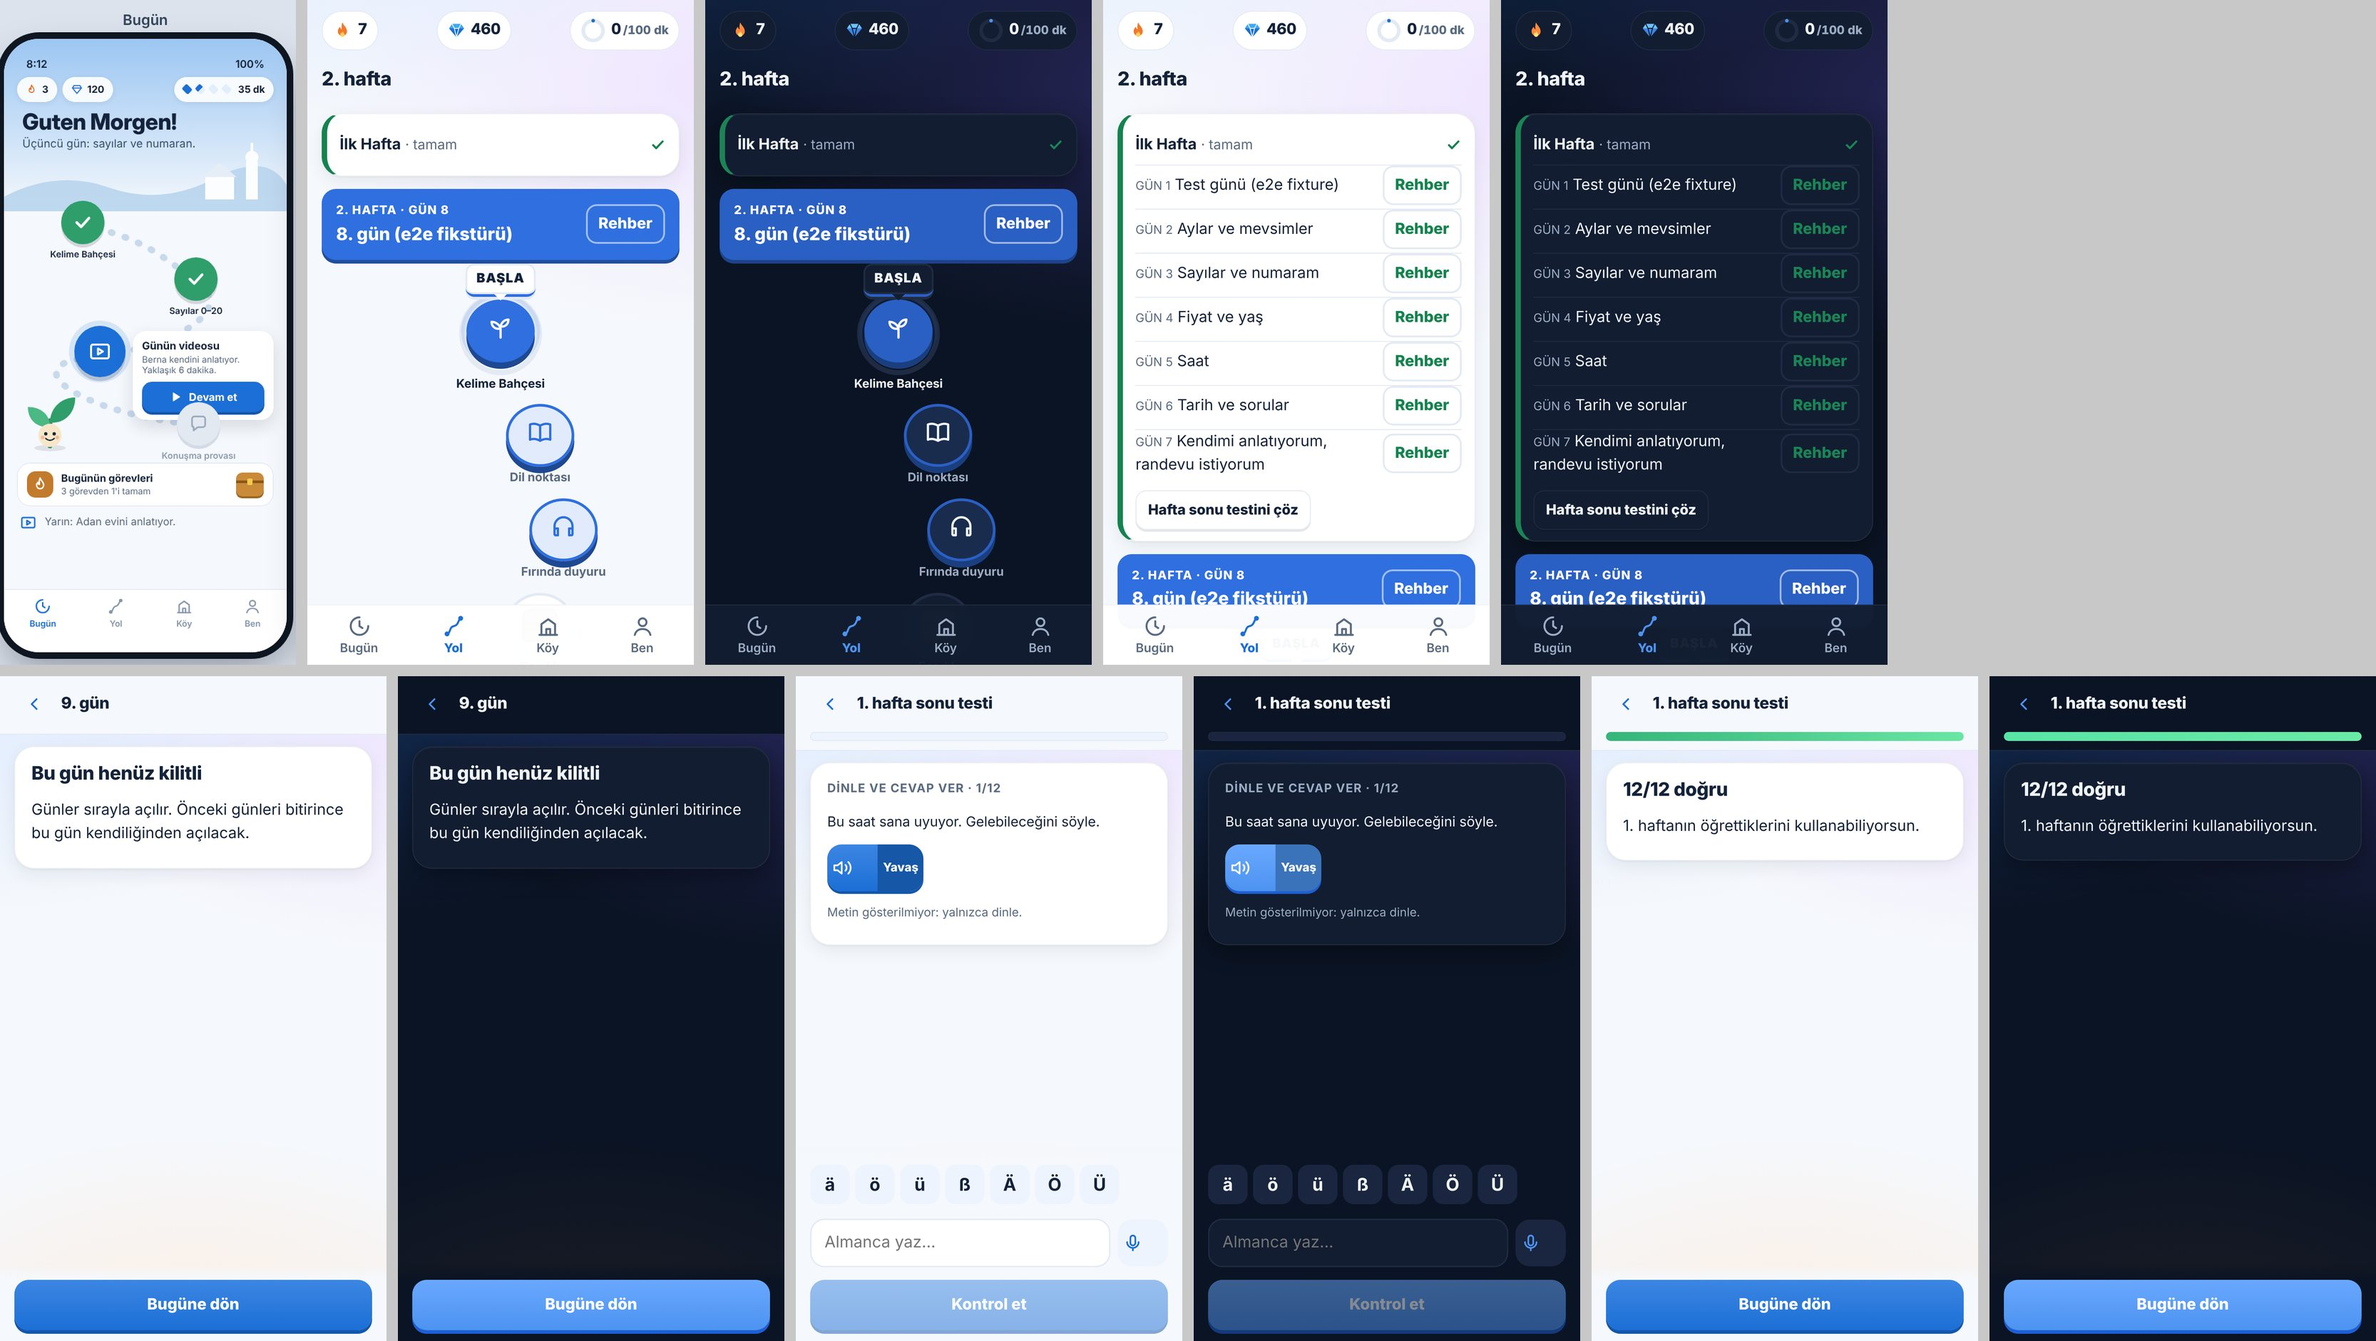
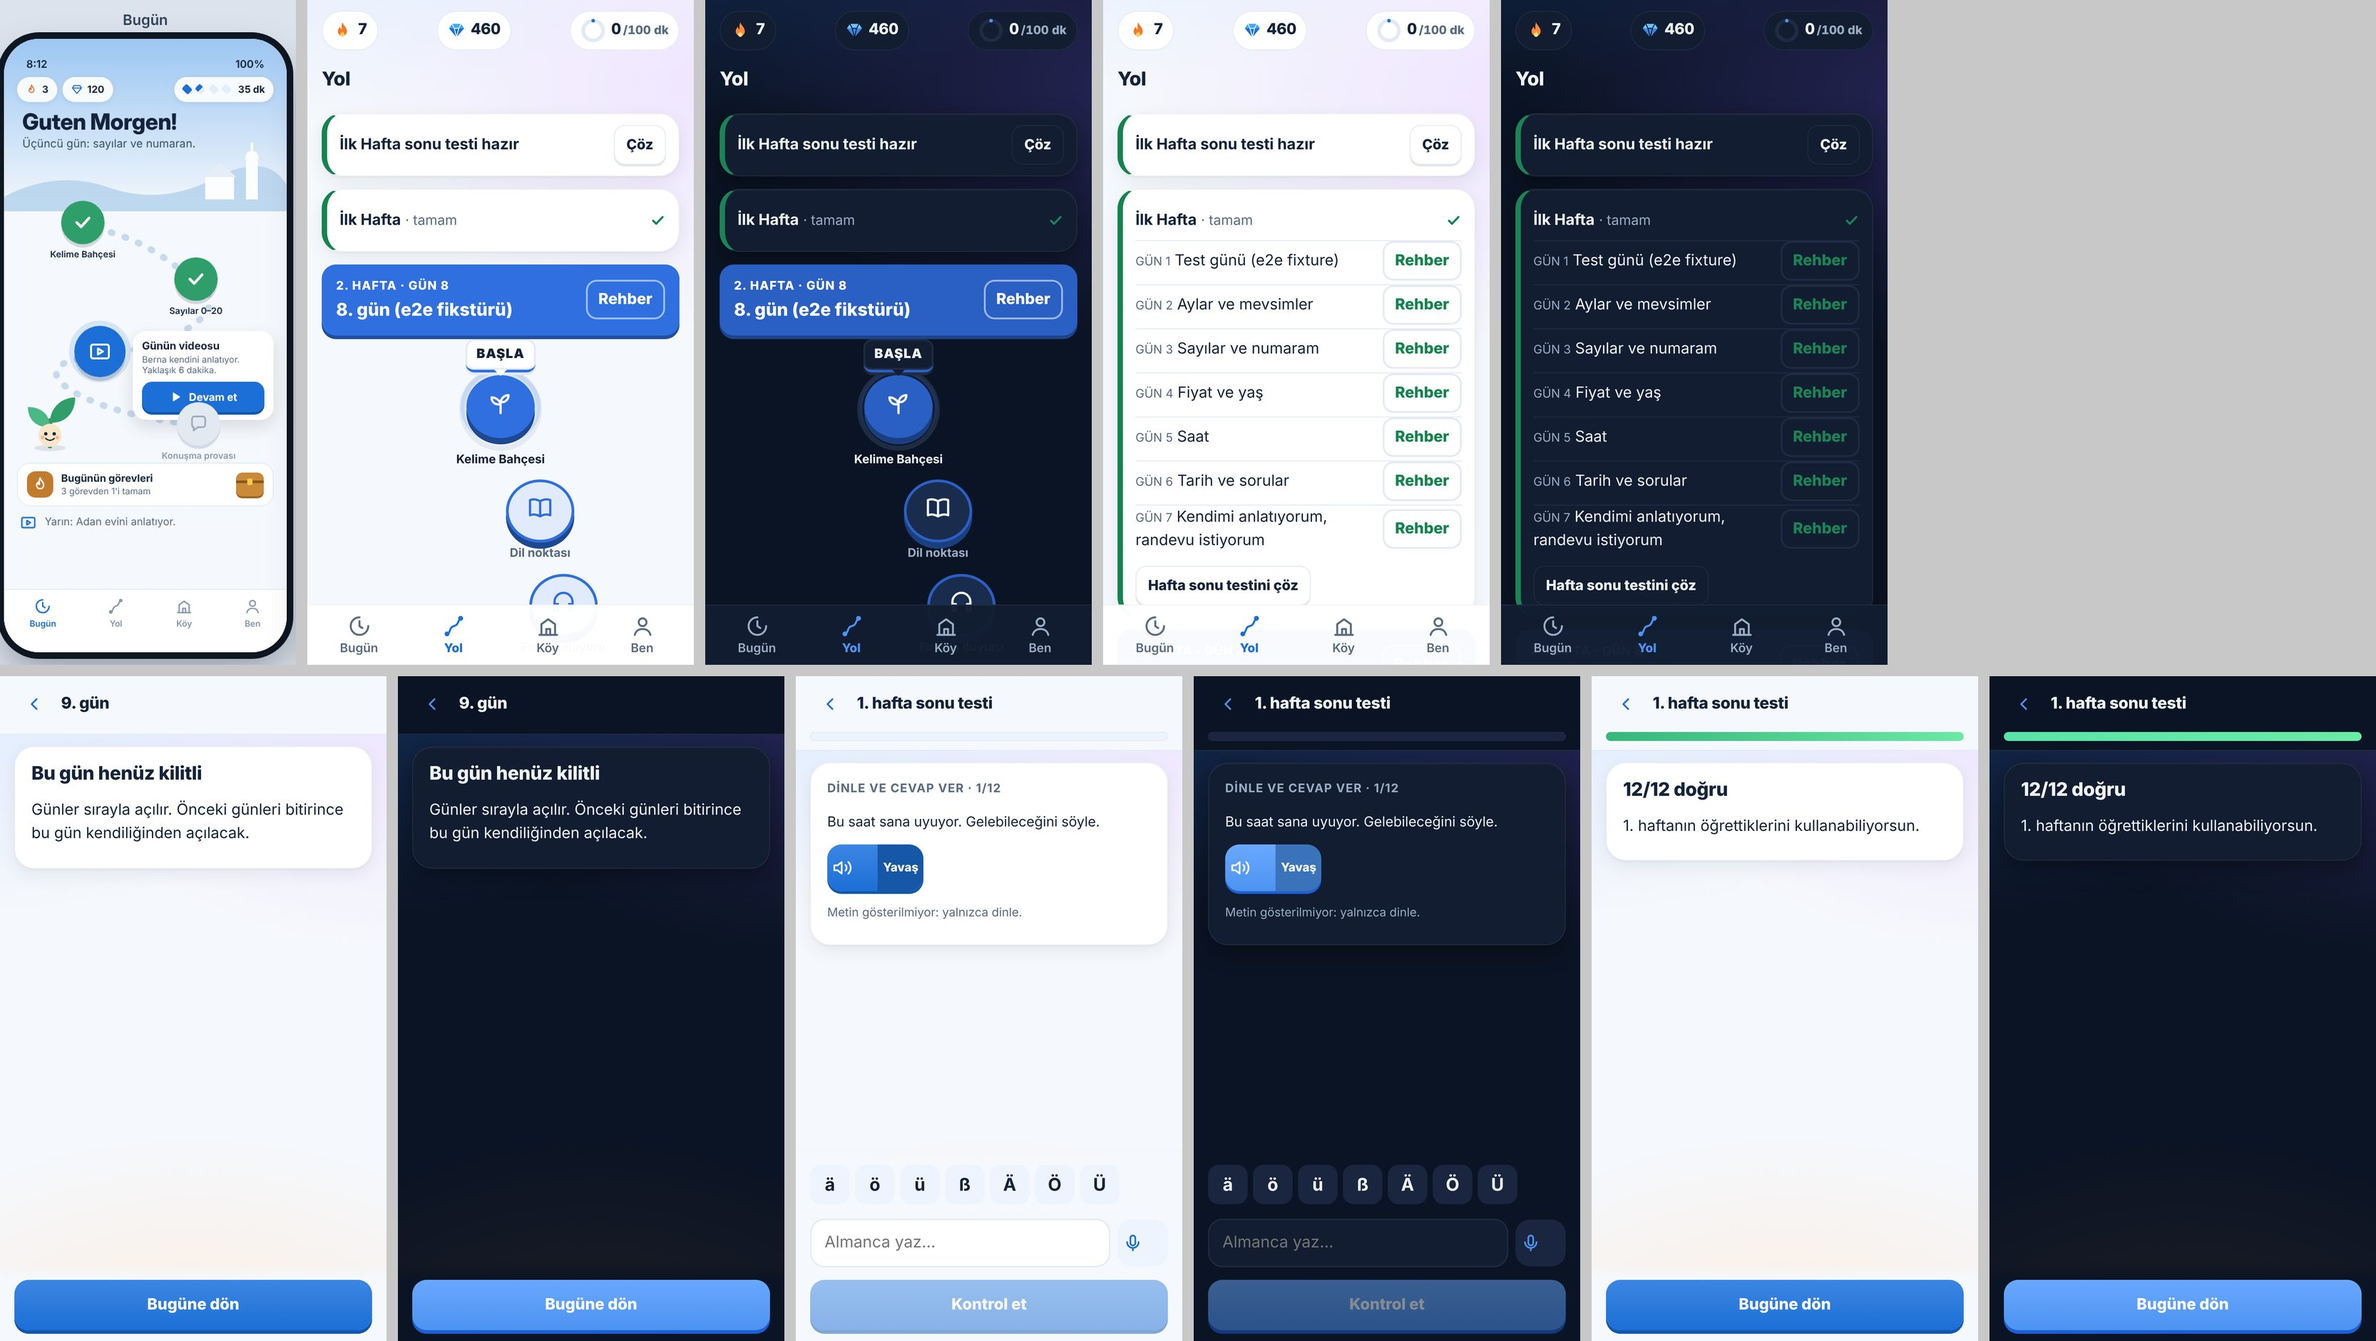
#243 1. tur: sonuç cümlesi gerçeğe uygun (P1-1), çözülmemiş önceki hafta testi yeni haftanın başında Yol+Bugün (P1-2), eşik policy.json, kapı anahtarlı, test hazır = paket günleri bitti, başlık 'Yol', okuma/medya kilidi e2e
Claude-Session: https://claude.ai/code/session_016gishJQtB6g72Ttn8oBfki

diff --git a/web/src/screens/Yol.tsx b/web/src/screens/Yol.tsx
@@ -11,13 +11,15 @@ import type { Gun } from "@dw/shared";
 import { useApp } from "../state.ts";
 import { loadM1Gun } from "../services/content.ts";
 import { gunBitisleri, gunBittiYaz, haftaSonuclari, ilerlemeOku, xpOku, type HaftaSonuc } from "../services/ilerleme.ts";
-import { adimAdi, gunAdimlari, gunOzeti, haftaOf, haftalara, haftaSonuMu, seri, siradaki, yol, yolGunleri, yuklenecekHafta, type Adim, type GunDurum, type XpKayit } from "../core/gun.ts";
+import { adimAdi, gunAdimlari, gunOzeti, haftaBitti, haftaOf, haftalara, haftaSonuMu, seri, siradaki, yol, yolGunleri, yuklenecekHafta, type Adim, type GunDurum, type XpKayit } from "../core/gun.ts";
 import { ErrorPanel, Loading, TopBar } from "../ui/components.tsx";
 import { Icon } from "../ui/icons.tsx";
 
 export interface Plan { gunler: (GunDurum & { durum: "bitti" | "simdi" | "kilitli" })[]; simdi: GunDurum | null; sonraki: Adim | null; xp: XpKayit; /** sonraki bir gün dosyası yüklenemedi */ eksik?: boolean;
   /** PR B-3: günler haftalara bölünmüş; `testler` pakette hafta sonu testi olan haftalar, `sonuclar` çözülen testler */
-  haftalar: { hafta: number; gunler: Plan["gunler"]; durum: "bitti" | "simdi" | "kilitli" }[]; testler: Set<number>; sonuclar: Map<number, HaftaSonuc> }
+  haftalar: { hafta: number; gunler: Plan["gunler"]; durum: "bitti" | "simdi" | "kilitli" }[]; testler: Set<number>; sonuclar: Map<number, HaftaSonuc>;
+  /** testi pakette olan ve paketteki bütün günleri kalıcı olarak bitmiş haftalar (`#/hafta/<H>` ekranıyla aynı kural; eksik dosyalı hafta girmez) */
+  testHazir: Set<number> }
 
 /**
  * Bugün ve Yol ekranlarının ortak verisi: günler + cihazdaki ilerleme + XP (index.m1 boşsa null).
@@ -65,8 +67,9 @@ export function usePlan(): { plan: Plan | null; err: string | null; yok: boolean
       // eksik dosya: o günden sonrası yola girmez (ileri gün atlanmaz); yoksa sonraki haftalar kilitli özet
       const sonra = eksik >= 0 ? [] : days.filter((d) => haftaOf(d) > hafta).map((d) => gunOzeti(d, ozet.get(d)!.title_tr, false));
       const y = yol([...once, ...durumlar, ...sonra]);
-      setPlan({ ...y, sonraki: siradaki(y.simdi), xp, eksik: eksik >= 0, haftalar: haftalara(y.gunler),
-        testler: new Set(Object.keys(index.files.hafta ?? {}).map(Number)), sonuclar });
+      const testler = new Set(Object.keys(index.files.hafta ?? {}).map(Number));
+      setPlan({ ...y, sonraki: siradaki(y.simdi), xp, eksik: eksik >= 0, haftalar: haftalara(y.gunler), testler, sonuclar,
+        testHazir: new Set([...testler].filter((h) => haftaBitti(h, days, bitenler))) });
     })().catch((e) => setErr(String(e?.message || e)));
   }, [index?.version, n]);
   return { plan, err, yok, yenile: () => setN((x) => x + 1) };
@@ -120,7 +123,7 @@ export function YolHarita({ plan, selam, ek, onBasla, yalnizBugun }: { plan: Pla
   const [acikHafta, setAcikHafta] = useState<Set<number>>(new Set());
   let sira = 0;
   const simdiGun = plan.simdi?.day;
-  const testAcik = (h: number) => plan.testler.has(h) && (plan.haftalar.find((x) => x.hafta === h)?.durum === "bitti");
+  const testAcik = (h: number) => plan.testHazir.has(h);
   const testDugum = (h: number) => {
     const s = plan.sonuclar.get(h);
     return <a class="btn sm" href={`#/hafta/${h}`} data-test={`hafta-testi-${h}`}>{s ? `Hafta sonu testi · ${s.dogru}/${s.toplam}` : "Hafta sonu testini çöz"}</a>;
@@ -218,6 +221,12 @@ export function YolHarita({ plan, selam, ek, onBasla, yalnizBugun }: { plan: Pla
     <div class="stack yol-harita" data-test="yol" data-hafta={hafta} style={{ "--vurgu": haftaRengi(hafta), "--vurgu-acik": haftaAcik(hafta) } as Record<string, string>}>
       <div class="sr-only" data-test="xp-seri"><b data-test="xp">{plan.xp.toplam}</b> XP · {seri(plan.xp) ? <><b data-test="seri">{seri(plan.xp)}</b> gün üst üste</> : "Bugün başla, seri başlasın"}</div>
       {tamamKart}
+      {/* önceki haftanın testi çözülmediyse şimdiki haftanın başında tek satır (inceleme #243 P1-2): 7. gün biter bitmez yol yeni haftaya geçer */}
+      {plan.simdi && hafta > 1 && testAcik(hafta - 1) && !plan.sonuclar.has(hafta - 1) && (
+        <section class="card row hafta-satir" data-test="hafta-testi-hazir" style={{ "--vurgu": haftaRengi(hafta - 1) } as Record<string, string>}>
+          <span class="grow"><b>{hafta - 1 === 1 ? "İlk Hafta" : `${hafta - 1}. hafta`} sonu testi hazır</b></span>
+          <a class="btn sm" href={`#/hafta/${hafta - 1}`} data-test={`hafta-testi-${hafta - 1}`}>Çöz</a>
+        </section>)}
       {yalnizBugun
         ? gosterilen.map(gunBolumu)
         : plan.haftalar.map((h) => (h === simdiki ? h.gunler.map(gunBolumu) : haftaSatiri(h)))}
@@ -236,5 +245,5 @@ export function YolEkrani() {
   if (yok) return <div class="stack"><TopBar title="Yol" /><section class="card"><p>İlk Hafta'nın günleri hazırlanıyor.</p></section></div>;
   if (!plan) return <Loading />;
   const h = haftaOf(plan.simdi?.day ?? plan.gunler[plan.gunler.length - 1]?.day ?? 1);
-  return <div class="stack"><TopBar title={h === 1 ? "İlk Hafta" : `${h}. hafta`} /><YolHarita plan={plan} /></div>;
+  return <div class="stack"><TopBar title={h === 1 ? "İlk Hafta" : "Yol"} /><YolHarita plan={plan} /></div>;
 }

diff --git a/web/src/app.tsx b/web/src/app.tsx
@@ -185,21 +185,21 @@ export function App() {
     case "assess": screen = <AssessRun />; break;
     case "assessResult": screen = <AssessResult id={route.id} />; break;
     case "call": screen = <Call id={route.id} />; break;
-    case "garden": screen = route.day ? <GunKapisi day={route.day}><Garden key={route.day} day={route.day} /></GunKapisi> : <Garden key={0} day={route.day} />; break;
+    case "garden": screen = route.day ? <GunKapisi key={location.hash} day={route.day}><Garden key={route.day} day={route.day} /></GunKapisi> : <Garden key={0} day={route.day} />; break;
     case "yol": screen = <YolEkrani />; break;
     case "ders": screen = <DersEkrani key={route.id} id={route.id} />; break;
-    case "prova": screen = <GunKapisi day={route.day}><ProvaEkrani key={route.day} day={route.day} /></GunKapisi>; break;
-    case "okuma": screen = <GunKapisi day={route.day}><OkumaEkrani key={route.day} day={route.day} /></GunKapisi>; break;
+    case "prova": screen = <GunKapisi key={location.hash} day={route.day}><ProvaEkrani key={route.day} day={route.day} /></GunKapisi>; break;
+    case "okuma": screen = <GunKapisi key={location.hash} day={route.day}><OkumaEkrani key={route.day} day={route.day} /></GunKapisi>; break;
     case "sozluk": screen = <SozlukEkrani q={route.q} id={route.id} />; break;
     case "ses": screen = <SesDeneme />; break;
     case "kalip": screen = <KalipEkrani key={route.id ?? "-"} id={route.id} />; break;
-    case "m1day": screen = <GunKapisi day={route.day}><M1Gun day={route.day} /></GunKapisi>; break;
+    case "m1day": screen = <GunKapisi key={location.hash} day={route.day}><M1Gun day={route.day} /></GunKapisi>; break;
     case "rehber": screen = <RehberEkrani day={route.day} />; break;
     case "gorevler": screen = <GorevlerRota />; break;
     case "odak": screen = <OdakEkrani />; break;
-    case "akis": screen = <GunKapisi key={route.day} day={route.day}><AkisRota key={route.day} day={route.day} /></GunKapisi>; break;
+    case "akis": screen = <GunKapisi key={location.hash} day={route.day}><AkisRota key={route.day} day={route.day} /></GunKapisi>; break;
     case "hafta": screen = <HaftaTestiEkrani key={route.hafta} hafta={route.hafta} />; break;
-    case "m1medya": screen = <GunKapisi day={route.day}><MedyaEkrani key={`${route.id}:${route.tur ?? ""}`} day={route.day} id={route.id} tur={route.tur} /></GunKapisi>; break;
+    case "m1medya": screen = <GunKapisi key={location.hash} day={route.day}><MedyaEkrani key={`${route.id}:${route.tur ?? ""}`} day={route.day} id={route.id} tur={route.tur} /></GunKapisi>; break;
     // yalnız e2e: AK-10 3. adımın iki türü, ekran (4. adım) gelene kadar (üretimde bu dal ve modül paketten düşer)
     default: screen = import.meta.env.MODE === "e2e" && location.hash === "#/__crash" ? <Crash /> : import.meta.env.MODE === "e2e" && location.hash.startsWith("#/__halka-turleri") ? <HalkaTurRota key={location.hash} /> : import.meta.env.MODE === "e2e" && location.hash.startsWith("#/__dil-noktasi/") ? <DilNoktasiRota key={location.hash} /> : <Today />;
   }

diff --git a/web/src/screens/HaftaTesti.tsx b/web/src/screens/HaftaTesti.tsx
@@ -16,6 +16,7 @@ import { gunBitisleri, haftaSonucYaz } from "../services/ilerleme.ts";
 import { DrillView, type DrillSonuc } from "../ui/drill.tsx";
 import { ErrorPanel, Loading } from "../ui/components.tsx";
 import { ActionBar, ProgressHeader } from "../ui/kit.tsx";
+import POLICY from "../policy.json" with { type: "json" };
 
 function Kilitli({ ust, baslik, metin }: { ust: string; baslik: string; metin: string }) {
   return (
@@ -81,7 +82,7 @@ export function HaftaTestiEkrani({ hafta }: { hafta: number }) {
         <ProgressHeader title={`${hafta}. hafta sonu testi`} back="#/today" ilerleme={{ n: toplam, toplam }} />
         <section class="card stack">
           <h2>{dogru}/{toplam} doğru</h2>
-          <p>{oran >= 0.8 ? `${hafta}. haftanın öğrettiklerini kullanabiliyorsun.` : "Yanlış yaptığın kalıplar Kelime Bahçesi'nde yeniden gelecek. İstersen testi sonra yeniden çözebilirsin."}</p>
+          <p>{oran >= POLICY.hafta_testi.gecme_orani ? `${hafta}. haftanın öğrettiklerini kullanabiliyorsun.` : `Zorlandığın yerleri ${hafta}. haftanın günlerindeki Rehber'den yeniden okuyabilirsin. Testi istediğin zaman yeniden çözebilirsin; en iyi sonucun kalır.`}</p>
         </section>
         <ActionBar><a class="btn primary block" href="#/today" data-test="bugune-don">Bugüne dön</a></ActionBar>
       </div>

diff --git a/tests/e2e/v2_yol_hafta.py b/tests/e2e/v2_yol_hafta.py
@@ -1,7 +1,7 @@
 """
 Çok haftalı Yol (PR B-3; PR B 7087645415 md. 1–5, PM-108 B md. 2): e2e fikstürü 8. ve 9. günle (content/tools/fixtures/m1).
 1.–7. gün bitmiş öğrenci (ogrenci_devam.tohumla) ile:
-  - Yol: 2. hafta açık ("2. HAFTA · GÜN 8"), 1. hafta tek satır "tamam" (dokununca 7 gün), başlık "2. hafta"; 8. gün şimdi, 9. gün kilitli
+  - Yol: 2. hafta açık ("2. HAFTA · GÜN 8"), 1. hafta tek satır "tamam" (dokununca 7 gün), başlık "Yol"; çözülmemiş 1. hafta testi 2. haftanın başında (Yol + Bugün); 8. gün şimdi, 9. gün kilitli
   - yükleme: Yol açılışında yalnız 2. haftanın gün dosyaları istenir (1.–7. gün dosyası yüklenmez)
   - gün kilidi: 9. gün adresle (#/akis/9, #/garden/9, #/prova/9) açılmaz → "henüz kilitli" + "Bugüne dön"; 8. gün açılır
   - hafta sonu testi (1. hafta): Yol'dan açılır, maddeler sırayla, sonuç ekranı, `m1:hafta:1` yazılır, Yol satırında sonuç
@@ -53,27 +53,30 @@ def main():
             dugum1: !!q('section.yolgun[data-test=gun-1]'), baslik: q('.topbar h1, header h1, h1')?.innerText, hafta: q('[data-test=yol]')?.dataset.hafta }; }""")
         check(y["h1"] == "bitti" and y["h1gun"] == 0 and not y["dugum1"], f"1. hafta tek satır 'tamam', günleri kapalı ({y})")
         check(y["g8"] == "simdi" and y["g9"] == "kilitli" and (y["bant"] or "").upper().startswith("2. HAFTA · GÜN 8"), f"2. hafta açık: 8. gün şimdi, 9. gün kilitli, bant '2. HAFTA · GÜN 8' ({y['bant']})")
-        check(y["hafta"] == "2" and "2. hafta" in (y["baslik"] or ""), f"Yol başlığı ve hafta rengi 2. haftanın ({y['baslik']}, hafta {y['hafta']})")
+        check(y["hafta"] == "2" and (y["baslik"] or "") == "Yol", f"Yol başlığı 'Yol', hafta rengi 2. haftanın ({y['baslik']}, hafta {y['hafta']})")
+        check(pg.locator("[data-test=hafta-testi-hazir] [data-test=hafta-testi-1]").count() == 1, "çözülmemiş 1. hafta testi 2. haftanın başında tek satır (Yol)")
         no_overflow(pg, "çok haftalı Yol")
         shot(pg, f"yol-hafta-2-{sema}", full=False)
         pg.click("[data-test=hafta-1] .hafta-satir-btn")
         n = pg.locator("[data-test=hafta-1-gunler] li").count()
-        check(n == 7 and pg.locator("[data-test=hafta-testi-1]").count() == 1, f"1. hafta satırı dokununca 7 günü ve testi açtı ({n})")
+        check(n == 7 and pg.locator("[data-test=hafta-1] [data-test=hafta-testi-1]").count() == 1, f"1. hafta satırı dokununca 7 günü ve testi açtı ({n})")
         shot(pg, f"yol-hafta-1-acik-{sema}", full=False)
 
         # gün kilidi: 9. gün adresle açılmaz
-        for adres in ("#/akis/9", "#/garden/9", "#/prova/9"):
-            pg.goto(base + adres); pg.wait_for_selector("[data-test=gun-kilitli], [data-test=akis], [data-test=garden], [data-test=prova]", timeout=15000)
+        for adres in ("#/akis/9", "#/garden/9", "#/prova/9", "#/okuma/9", "#/m1/9/x"):
+            pg.goto(base + adres); pg.wait_for_selector("[data-test=gun-kilitli], [data-test=akis], [data-test=garden], [data-test=prova], [data-test=okuma], [data-test=medya]", timeout=15000)
             check(pg.locator("[data-test=gun-kilitli]").count() == 1 and pg.locator("[data-test=bugune-don]").count() == 1, f"{adres}: kilitli gün kapanır, 'Bugüne dön' var")
         shot(pg, f"gun-kilitli-{sema}", full=False)
         pg.goto(base + "#/akis/8"); pg.wait_for_selector("[data-test=akis], [data-test=gun-kilitli]", timeout=20000)
         check(pg.locator("[data-test=akis]").count() == 1, "8. gün (şimdiki) adresle açılır")
+        pg.goto(base + "#/today"); pg.wait_for_selector("[data-test=next-activity]", timeout=15000)
+        check(pg.locator("[data-test=hafta-testi-hazir]").count() == 1, "çözülmemiş 1. hafta testi Bugün'de de tek satır")
 
         # 2. haftanın testi kilitli; 1. haftanın testi baştan sona
         pg.goto(base + "#/hafta/2"); pg.wait_for_selector("[data-test=gun-kilitli], [data-test=hafta-testi]", timeout=15000)
         check(pg.locator("[data-test=gun-kilitli]").count() == 1, "2. hafta bitmeden 2. haftanın testi açılmaz")
         pg.goto(base + "#/yol"); pg.wait_for_selector("[data-test=hafta-1] .hafta-satir-btn")
-        pg.click("[data-test=hafta-1] .hafta-satir-btn"); pg.click("[data-test=hafta-testi-1]")
+        pg.click("[data-test=hafta-1] .hafta-satir-btn"); pg.click("[data-test=hafta-1] [data-test=hafta-testi-1]")
         pg.wait_for_selector("[data-test=hafta-testi]", timeout=15000)
         shot(pg, f"hafta-testi-{sema}", full=False)
         sayac = 0
@@ -91,6 +94,7 @@ def main():
         pg.goto(base + "#/yol"); pg.wait_for_selector("[data-test=hafta-1]")
         t = pg.inner_text("[data-test=hafta-1]")
         check(f"test {r['d']}/{r['t']}" in t, f"Yol'da 1. hafta satırı test sonucunu gösterir ({t!r})")
+        check(pg.locator("[data-test=hafta-testi-hazir]").count() == 0, "çözülen testin satırı kalktı")
         b.close()
     srv.shutdown()
     finish()
